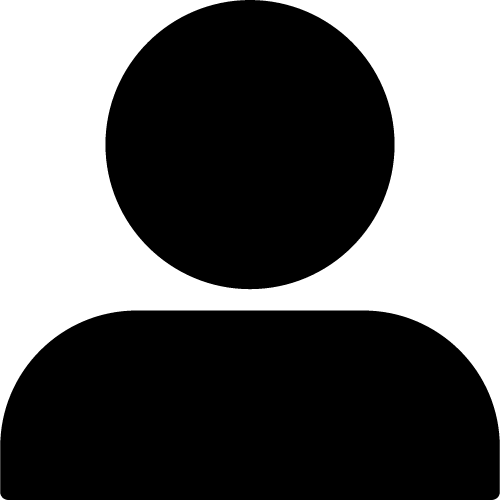
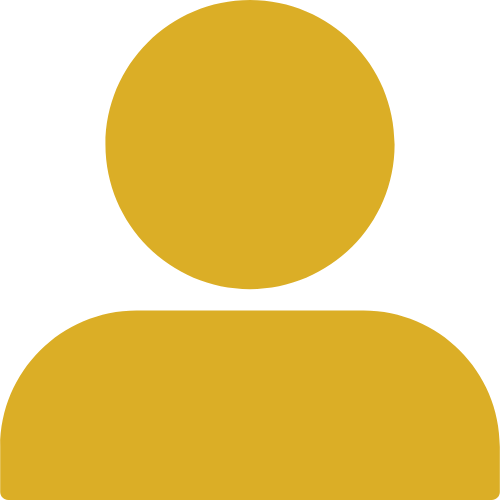
przechodzenie na stronę produktu, css płacze

diff --git a/database/repositories/ProductRepository.js b/database/repositories/ProductRepository.js
@@ -4,12 +4,12 @@ class ProductRepository {
     constructor(conn) {
         this.conn = conn;
     }
-    async retrieve(name) {
+    async retrieve(name = null) {
         try {
             var req = new mssql.Request(this.conn);
             if (name) req.input('name', name);
-            var res = await req.query('select * from Produkt' + (name ? 'where Nazwa = @name' : ''));
-            return name ? res.recordset[0] : res.recordset;
+            var res = await req.query('select * from Produkt' + (name ? 'where Nazwa = %@name%' : ''));
+            return res.recordset;
         }
         catch (err) {
             console.log(err);
@@ -33,7 +33,7 @@ class ProductRepository {
         try {
             var req = new mssql.Request(this.conn);
             var res = await req.query('select Kategorie.Kategoria from Produkt JOIN Kategorie on Produkt.Kategoria = Kategorie.ID');
-            return res.recordset[0];
+            return res.recordset[0] ? res.recordset[0].Kategoria : res.recordset[0];
         }
         catch (err) {
             console.log(err);
@@ -43,8 +43,8 @@ class ProductRepository {
     async getColor(id) {
         try {
             var req = new mssql.Request(this.conn);
-            var res = await req.query('select Kolory.Kolor from Produkt JOIN Kolory on Produkt.Kolor = Kolor.ID');
-            return res.recordset[0];
+            var res = await req.query('select Kolory.Kolor from Produkt JOIN Kolory on Produkt.Kolor = Kolory.ID');
+            return res.recordset[0] ? res.recordset[0].Kolor : res.recordset[0];
         }
         catch (err) {
             console.log(err);
@@ -54,8 +54,8 @@ class ProductRepository {
     async getZircColor(id) {
         try {
             var req = new mssql.Request(this.conn);
-            var res = await req.query('select Kolory.Kolor from Produkt JOIN Kolory on Produkt.[Kolor Cyrkonii] = Kolor.ID');
-            return res.recordset[0];
+            var res = await req.query('select Kolory.Kolor from Produkt JOIN Kolory on Produkt.[Kolor Cyrkonii] = Kolory.ID');
+            return res.recordset[0] ? res.recordset[0].Kolor : res.recordset[0];
         }
         catch (err) {
             console.log(err);
@@ -66,7 +66,7 @@ class ProductRepository {
         try {
             var req = new mssql.Request(this.conn);
             var res = await req.query('select Materialy.Material from Produkt JOIN Materialy on Produkt.Material = Materialy.ID');
-            return res.recordset[0];
+            return res.recordset[0] ? res.recordset[0].Material : res.recordset[0];
         }
         catch (err) {
             console.log(err);
@@ -77,7 +77,7 @@ class ProductRepository {
         try {
             var req = new mssql.Request(this.conn);
             var res = await req.query('select Modele.Model from Produkt JOIN Modele on Produkt.Model = Modele.ID');
-            return res.recordset[0];
+            return res.recordset[0] ? res.recordset[0].Model : res.recordset[0];
         }
         catch (err) {
             console.log(err);

diff --git a/public/css/index.css b/public/css/index.css
@@ -1,31 +1,30 @@
-#start{
+#start {
     position: absolute;
-    left: 200px;
-    top: 250px;
+    left: 15%;
+    top: 20%;
 }
 
-#foto{
+#foto {
     position: absolute;
-    height: 600px;
+    height: 140%;
     width: auto;
-    left: 300px;
-    top: -100px;
+    left: 50%;
     z-index: -1;
 }
 
-#start_big_text{
+#start_big_text {
     position: relative;
-    font-size: 50px; 
+    font-size: 50px;
     top: 20px;
     z-index: 1;
 }
 
-#click_rctg{
+#click_rctg {
     width: 90px;
     height: 40px;
 }
 
-#kliknij{
+#kliknij {
     position: relative;
     color: black;
     user-select: none;
@@ -35,6 +34,47 @@
     font-size: small;
 }
 
-main {
+.product-list {
+    margin: 10%;
+    display: flex;
+    flex-wrap: wrap;
+    justify-content: space-around;
+    text-decoration: none;
+  }
+
+#nazwa{
+    color: black;
+    text-decoration: none;
+}
+#cena{
+    color: #DBAE26;
+    text-decoration: none;
+    font-size: large;
+}
+.product-container {
+    background-color: #fff;
+    box-shadow: 0 0 10px rgba(0, 0, 0, 0.1);
+    border-radius: 8px;
+    margin: 10px;
     padding: 20px;
+    text-align: center;
+    transition: transform 0.2s ease-in-out;
+    flex: 0 0 calc(20% - 40px); /* Adjust the width as needed */
+    box-sizing: border-box;
+    text-decoration: none;
+  }
+
+.product-container:hover {
+    transform: scale(1.05);
+}
+
+.product-container img {
+    max-width: 100%;
+    height: auto;
+    border-radius: 8px;
+    margin-bottom: 5px;
+}
+
+main {
+    padding: 10px;
 }

diff --git a/main.js b/main.js
@@ -54,8 +54,9 @@ app.use((req, res, next) => {
 
 app.use(shopRoutes);
 
-app.get('/', (req, res) => {
-    res.render('index');
+app.get('/', async (req, res) => {
+    var products = await ProdRepo.retrieve();
+    res.render('index', {products});
 });
 
 app.get('/admin', async (req, res) => {
@@ -67,8 +68,18 @@ app.get('/admin', async (req, res) => {
 });
 
 app.get('/konto', async (req, res) => {
-  var product = await ProdRepo.retrieve(1);
-  res.render('product', {product});
+  
+});
+
+app.get('/produkt/:id', async (req, res) => {
+  var productId = req.params.id;
+  var product = await ProdRepo.retrieveID(productId);
+  var category = await ProdRepo.getCategory(productId);
+  var color = await ProdRepo.getColor(productId);
+  var material = await ProdRepo.getMaterial(productId);
+  var model = await ProdRepo.getModel(productId);
+  var zirc_color = await ProdRepo.getZircColor(productId);
+  res.render('product', {product, category, color, material, model, zirc_color});
 });
 
 app.listen(port, () => {

diff --git a/public/css/navigation.css b/public/css/navigation.css
@@ -1,33 +1,33 @@
 #logo {
-    width: 200px;
+    width: 17%;
     height: auto;
     position: absolute;
-    left: 180px;
-    top: 50px;
+    left: 10%;
+    top: 7%;
 }
 
 #admin {
-    width: 30px;
+    width: 10%;
     height: auto;
     position: relative;
 }
 
 #cart {
-    width: 30px;
+    width: 10%;
     height: auto;
     position: relative;
 }
 
 #account {
-    width: 30px;
+    width: 10%;
     height: auto;
     position: relative;
 }
 
 nav {
     position: absolute;
-    right: 70px;
-    top: 50px;
+    top: 5%; 
+    right: 5%;
 }
 
 nav ul {
@@ -35,8 +35,9 @@ nav ul {
     margin: 0;
     padding: 0;
     display: flex;
+    position: absolute;
 }
 
 nav ul li {
-    margin-left: 30px;
+    margin-right: 3%; 
 }
